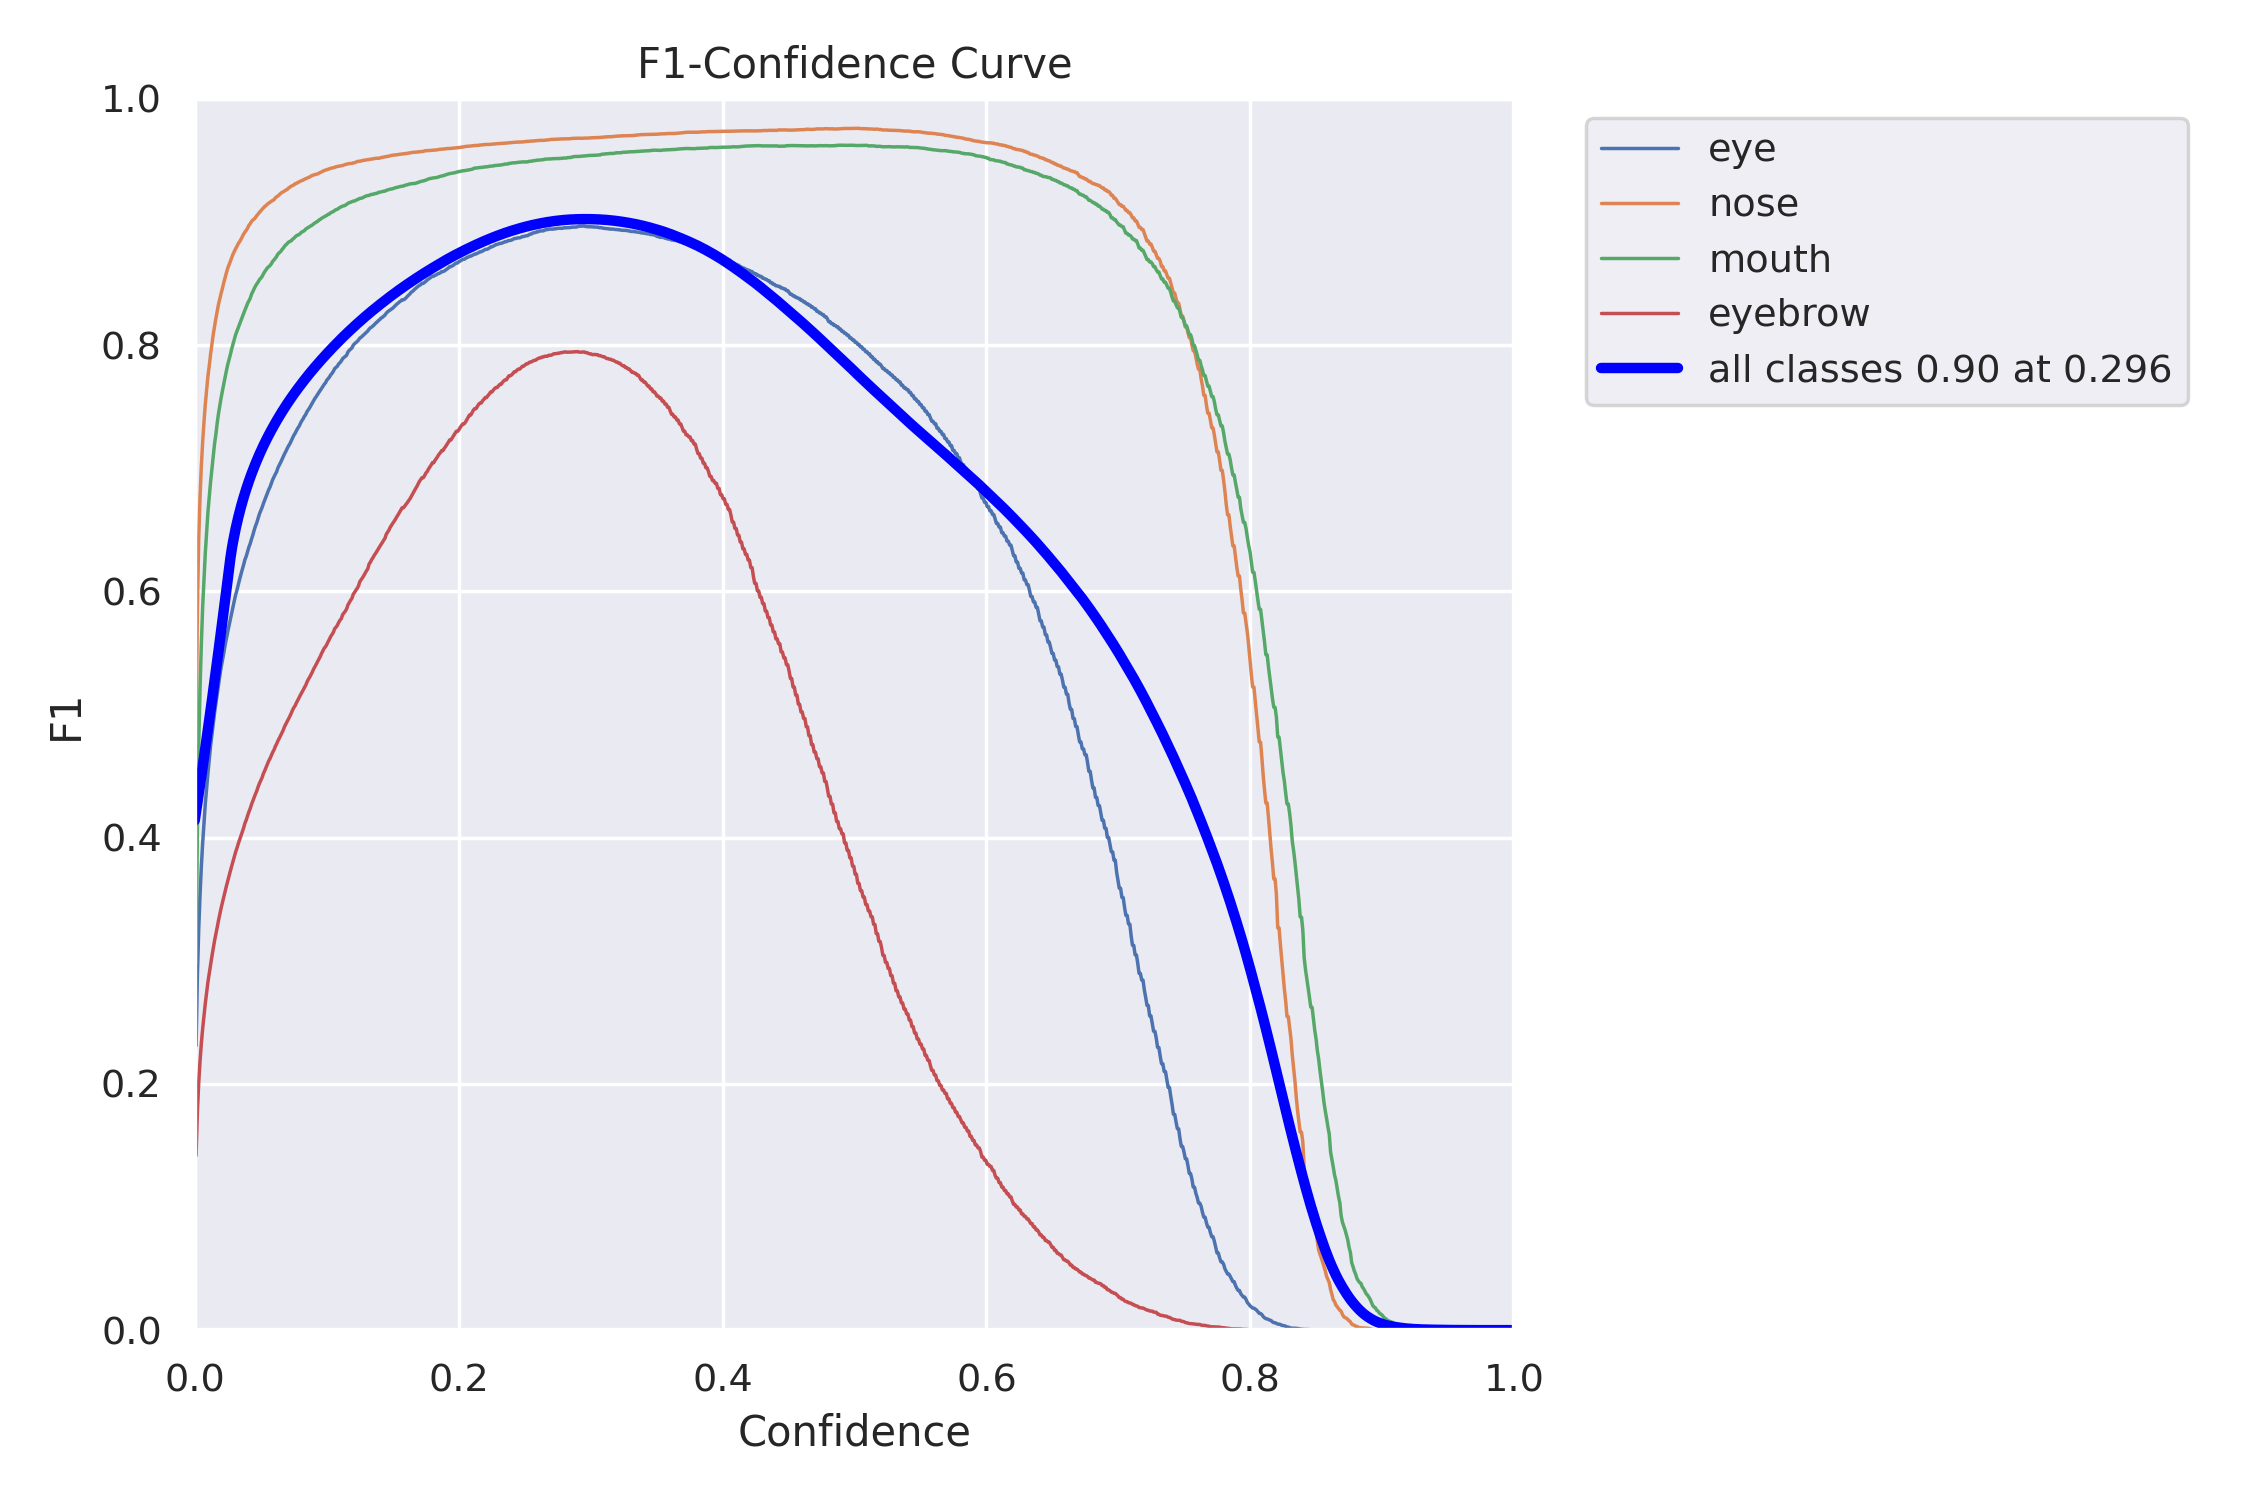
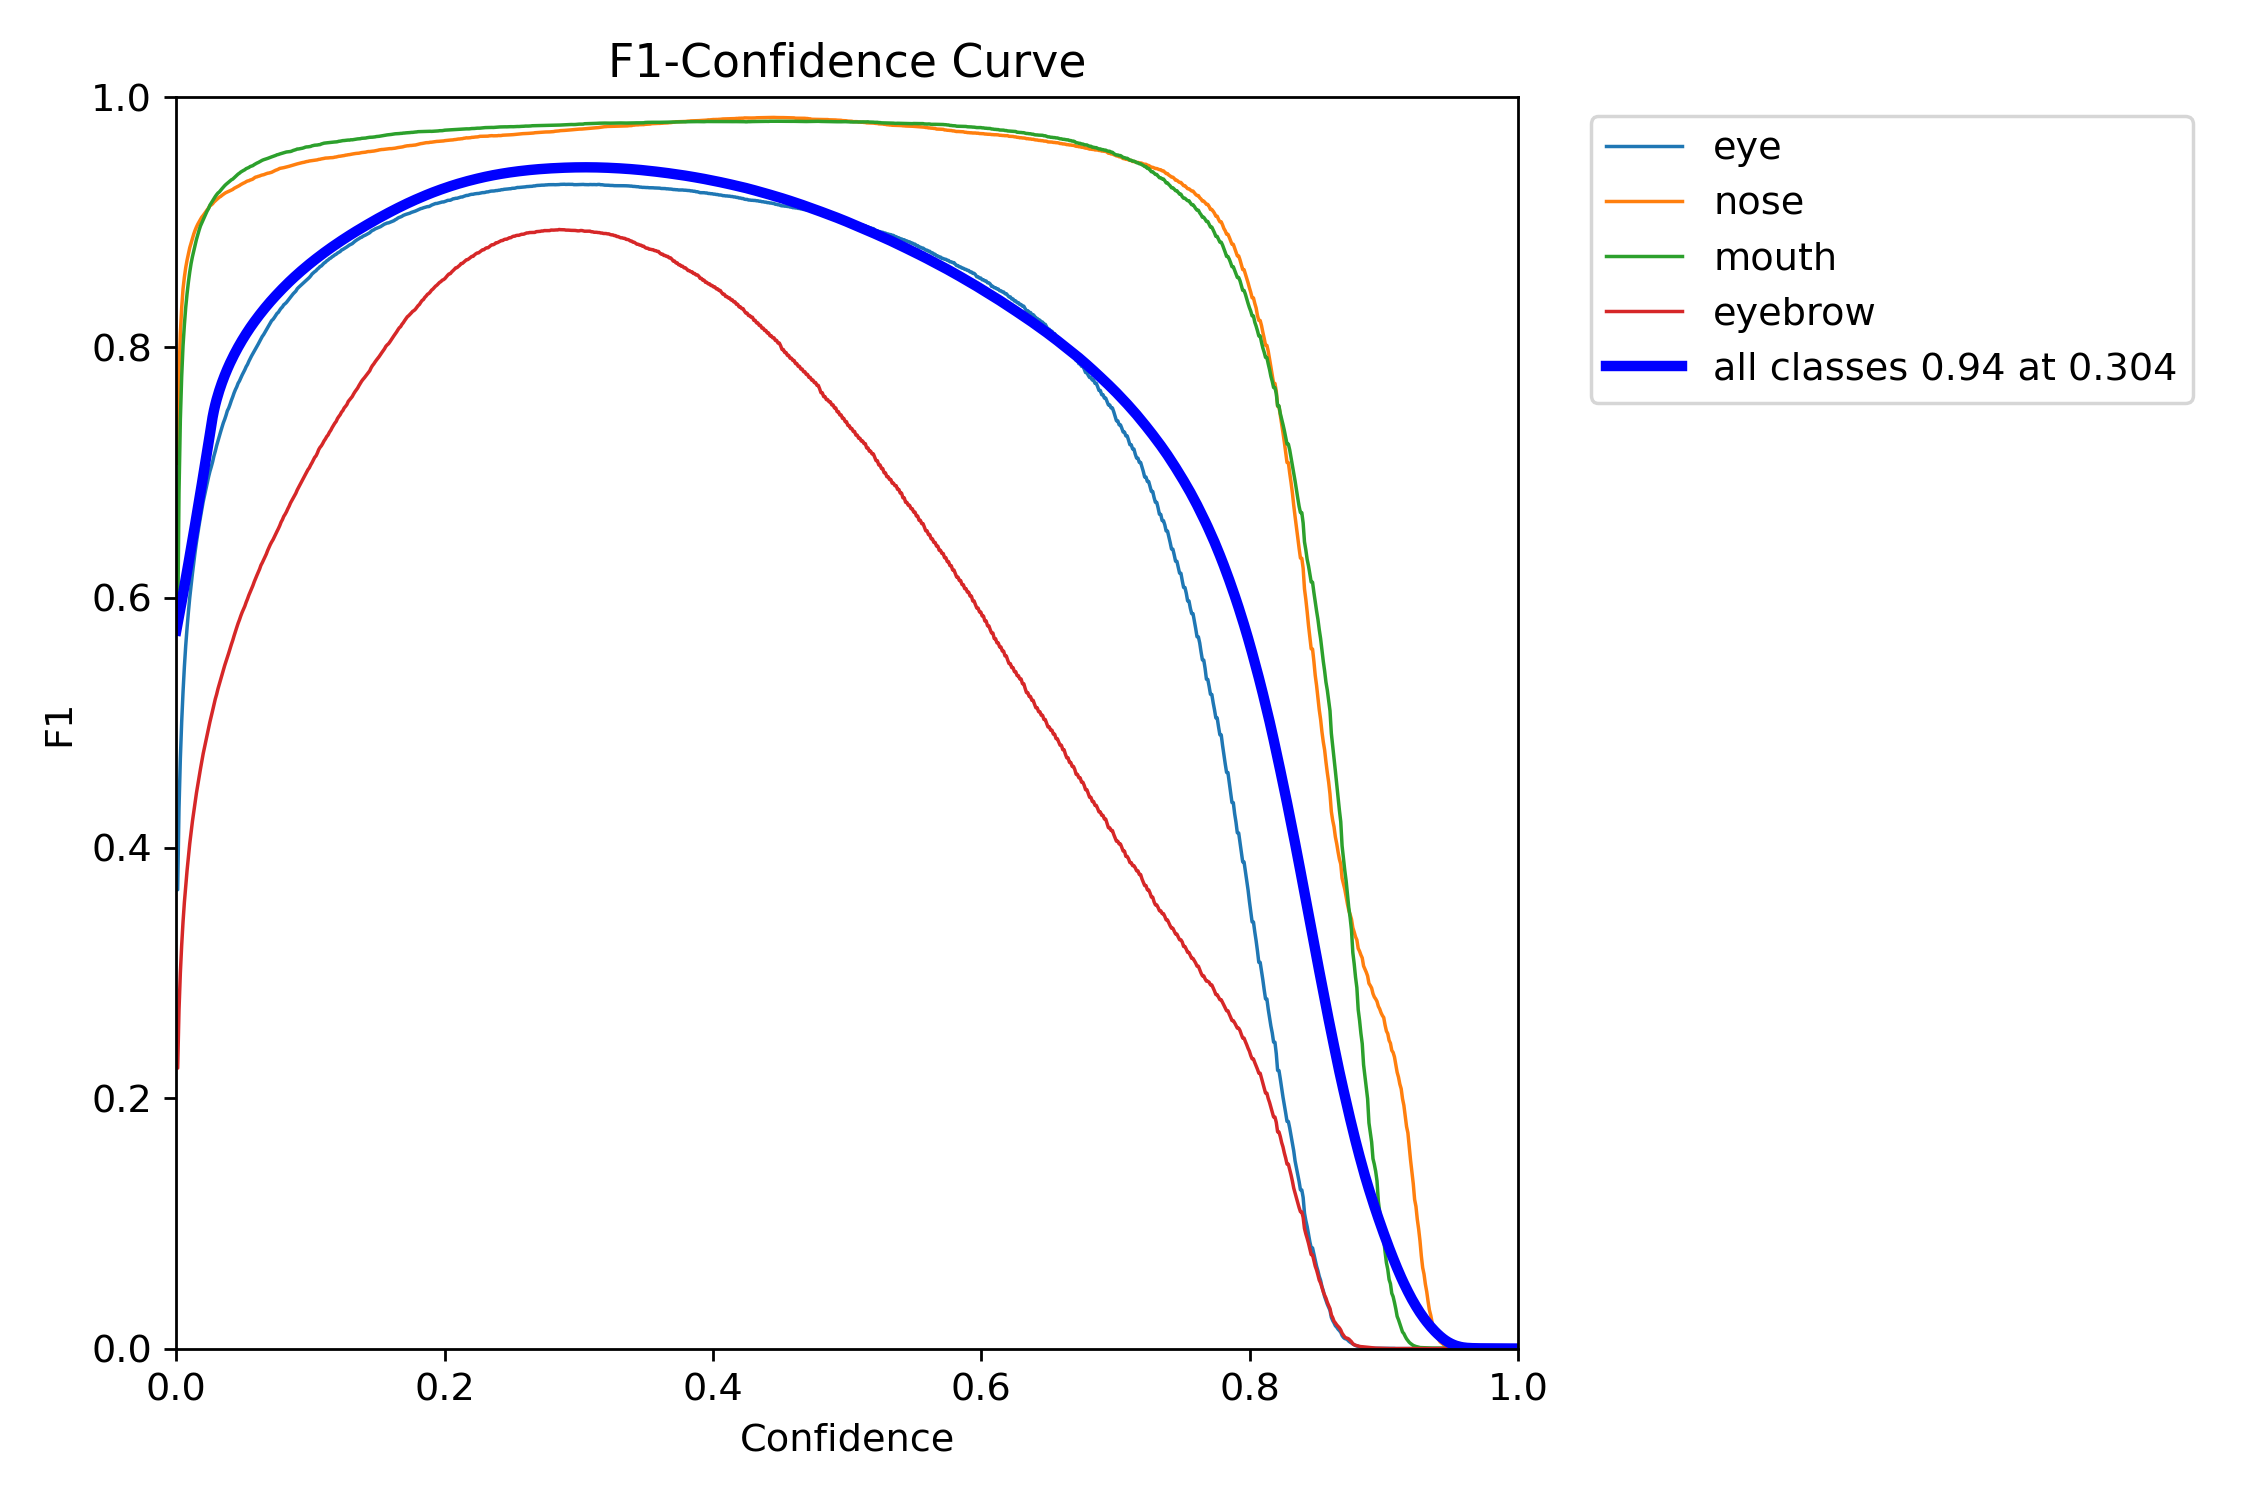
Update Readme.md

diff --git a/Readme.md b/Readme.md
@@ -31,6 +31,11 @@ Some datasets such as Helen may generate noisy examples when the images have mor
 
 ### Performance
 
-The model I've trained (nano) struggles with eyebrows, but it works really well on eyes and noses. I need to add more close-up images of each part to increase the number of incomplete faces.
+The model I've trained (_nano_) struggles with eyebrows, but it works really well on eyes and noses. I need to add more close-up images of each part to increase the number of incomplete or occluded faces.
 
-![F1 curve](images/F1_curve.png)
+![Yolov8-nano F1 curve](images/F1_curve.png)
+
+Here are the metrics for the _nano_ model:
+
+![YOLOv8-nano results](images/results.png)
+
